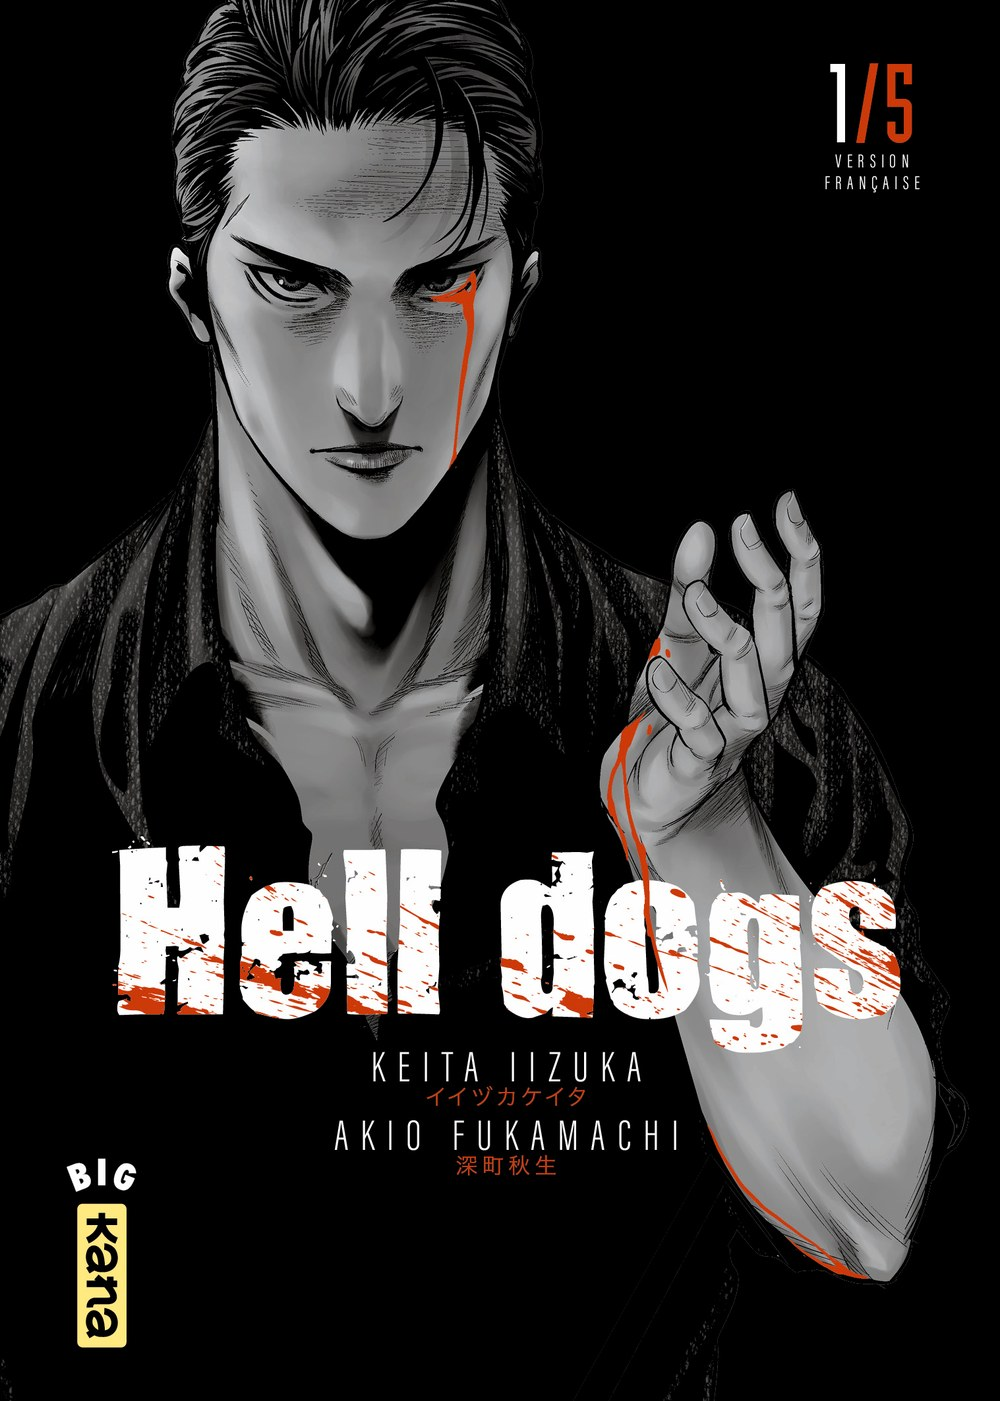
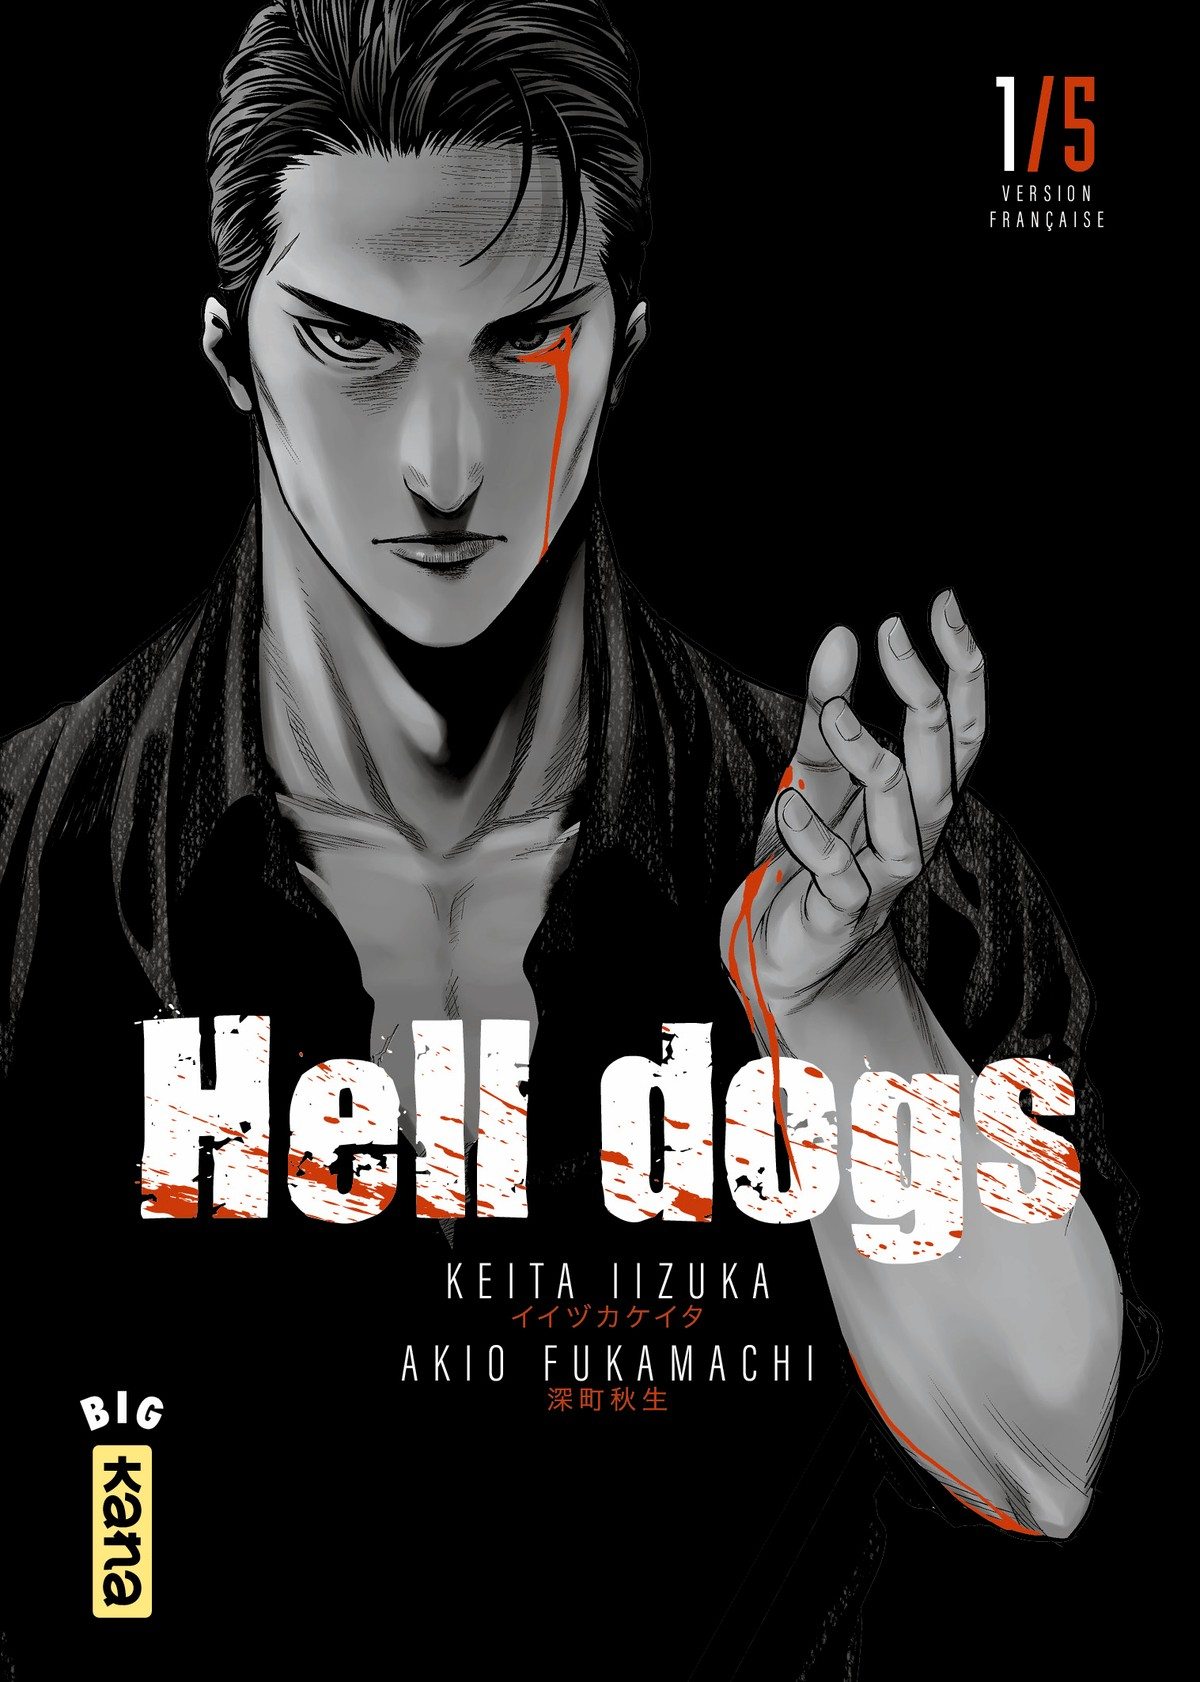
Hell Dogs T.01 : meilleure couverture ; fiche série : titre « Informations » ; back-office : carte dépliée d'un appui, tomes plus clairs, réseaux des auteurs obligatoires ; légendes avec @mentions des comptes officiels
Claude-Session: https://claude.ai/code/session_01ShgbxL6GpEPzbudUpDfTjj

Changed region(s): [[0.868, 0.6752, 0.899, 0.7059], [0.093, 0.8594, 0.124, 0.8901]]

diff --git a/studio/fiche/index.html b/studio/fiche/index.html
@@ -185,6 +185,11 @@ const SITE = "furyo.pages.dev";
 const TAGS = { "Furyō": ["furyo", "yankee"], "Furyō Old School": ["furyo"], "Yakuza": ["yakuza"], "Bōsōzoku": ["bosozoku"], "Crime": ["crime"], "Underground": ["underground"], "Gang": ["gang"], "Arts Martiaux": ["artsmartiaux"], "Combat de rue": ["streetfight"], "Thriller": ["thriller"], "Policier": ["polar"], "Drogue": ["drogue"], "Prison": ["prison"], "Lycée": ["lycee"], "Moto": ["moto"] };
 const tagOf = t => "#" + String(t || "").normalize("NFD").replace(/[\u0300-\u036f]/g, "").replace(/[^A-Za-z0-9]/g, "");
 const phrases = (txt, n) => (String(txt || "").match(/[^.!?…]+[.!?…]+(\s|$)/g) || [txt || ""]).slice(0, n).join("").trim();
+// @mentions des comptes officiels (auteurs d'abord, puis éditeurs, magazine, plateforme), réseau par réseau.
+function mentions(d, net){
+  const h = d.handles; if (!h) return "";
+  return [...new Set([...(h.auteurs || []), ...(h.editeurs || [])].map(x => x[net]).filter(Boolean))].map(x => "@" + x).join(" ");
+}
 function caps(d){
   const url = `${SITE}/series/${d.slug}`;
   const auteurs = d.scen && d.dess && d.scen !== d.dess ? `Histoire ${d.scen} · Dessin ${d.dess}` : (d.scen || d.dess || "");
@@ -201,7 +206,7 @@ ${phrases(d.resume, 2)}
 ${pays}
 
 📖 La fiche complète (tous les tomes, extraits, adaptations) est sur le site : lien en bio.${membre}
-
+${mentions(d, "ig") ? "\n📣 " + mentions(d, "ig") + "\n" : ""}
 Fiche n°${d.n} sur ${d.tot} · de nouvelles fiches chaque semaine.
 
 ${tags.concat(["#mangafr"]).slice(0, 12).join(" ")}`;
@@ -211,10 +216,10 @@ ${phrases(d.resume, 1)}
 
 ${auteurs}
 Tout sur la série : lien en bio 📖${membre}
-
+${mentions(d, "tt") ? "\n📣 " + mentions(d, "tt") + "\n" : ""}
 ${tags.concat(["#mangatok", "#mangafr", "#manga"]).filter((v, i, a) => a.indexOf(v) === i).slice(0, 8).join(" ")}`;
   // X : 280 caractères, un lien compte pour 23. On raccourcit le résumé jamais le reste.
-  const xBase = r => `🆕 Nouvelle fiche : ${d.t}${infos ? ` (${[d.type, d.y1].filter(Boolean).join(", ")})` : ""}\n\n${r}${r ? "\n\n" : ""}Tout sur la série 👉 ${url}\n${tags.slice(0, 3).join(" ")}`;
+  const xBase = r => `🆕 Nouvelle fiche : ${d.t}${infos ? ` (${[d.type, d.y1].filter(Boolean).join(", ")})` : ""}\n\n${r}${r ? "\n\n" : ""}Tout sur la série 👉 ${url}\n${mentions(d, "x") ? mentions(d, "x") + "\n" : ""}${tags.slice(0, 3).join(" ")}`;
   const xLen = t => t.replace(url, "x".repeat(23)).length;
   let r = phrases(d.resume, 1), x = xBase(r);
   while (xLen(x) > 280 && r) { r = r.split(" ").slice(0, -1).join(" "); x = xBase(r ? r.replace(/[,;:]?$/, "…") : ""); }
@@ -253,7 +258,11 @@ async function pick(slug){
     n: rang ? rang.rang : (AV ? AV.enLigne : 1), tot: AV ? AV.total : 600, scen: "", dess: "", resume: "" };
   document.getElementById("n").value = cur.n; document.getElementById("tot").value = cur.tot;
   history.replaceState(null, "", "?s=" + s.slug); draw(); drawCaps();
-  try { const j = await (await fetch("/api/serie?s=" + s.slug)).json(); if (j.serie && cur.slug === s.slug) { cur.scen = j.serie.scen; cur.dess = j.serie.dess; cur.resume = j.serie.resume || ""; cur.pubJP = j.serie.pubJP || ""; cur.tomesJP = j.serie.tomesJP; draw(); drawCaps(); } } catch (e) {}
+  try { const j = await (await fetch("/api/serie?s=" + s.slug)).json(); if (j.serie && cur.slug === s.slug) { cur.scen = j.serie.scen; cur.dess = j.serie.dess; cur.resume = j.serie.resume || ""; cur.pubJP = j.serie.pubJP || ""; cur.tomesJP = j.serie.tomesJP; draw(); drawCaps(); }
+    // Comptes officiels pour les @mentions (seulement si connecté au back-office).
+    if (cur.id) { const r = await fetch("/api/admin/handles?id=" + cur.id); const m = document.getElementById("capMsg");
+      if (r.ok) { const h = await r.json(); if (cur.slug === s.slug) { cur.handles = h; drawCaps(); } }
+      else if (r.status === 401 && m) m.textContent = "Connecte-toi au back-office (/admin/) pour ajouter automatiquement les @ des auteurs et éditeurs."; } } catch (e) {}
 }
 async function dl(key){
   const [th, fm] = key.split("-"), [w, h] = SIZE[fm];

diff --git a/functions/api/admin/series.js b/functions/api/admin/series.js
@@ -7,15 +7,20 @@ import { estVisible } from "../../../lib/site.js";
 const SERIES = { dataSource: "3ebb5e1a-634f-8051-9faf-000be2dabb16", database: "3ebb5e1a634f80f998e3c0fe5b75b6ea" };
 const EDITIONS = { dataSource: "ab76d47e-6580-4eab-abb5-87012c3b81a9", database: "c87f41f89f8142e5b45bb21f66416f6f" };
 const TOMES = { dataSource: "bb621014-699d-4209-b488-18f5e53dd3df", database: "8bebb5bd70554da9b2801c132181a521" };
+const AUTEURS = { dataSource: "22b1c097-0ff0-496c-9540-26953780c522", database: "bbefc8a1431247788b2445de4265d36b" };
 const nid = id => id.replace(/-/g, "");
 
 export async function onRequestGet({ request, env }) {
   if (!(await isAdmin(request, env))) return json({ error: "connexion requise" }, 401);
-  const [rows, eRows, tRows] = await Promise.all([
+  const [rows, eRows, tRows, aRows] = await Promise.all([
     queryAll(env.NOTION_TOKEN, { ...SERIES }),
     queryAll(env.NOTION_TOKEN, { ...EDITIONS }),
     queryAll(env.NOTION_TOKEN, { ...TOMES }),
+    queryAll(env.NOTION_TOKEN, { ...AUTEURS }),
   ]);
+  // Auteurs dont les réseaux ont été cherchés (date remplie, même si aucun compte n'existe).
+  const auteurOk = {};
+  for (const a of aRows) auteurOk[nid(a.id)] = !!date(a.properties["Réseaux vérifiés le"]);
   const today = new Date().toISOString().slice(0, 10);
   // Tomes parus par série et par pays : numéros distincts, et ceux sans couverture.
   const eds = {};
@@ -43,15 +48,17 @@ export async function onRequestGet({ request, env }) {
       ["Magazine", !!text(p["Magazine"])],
       ["Statut Japon", !!text(p["Statut Japon"])],
       ["Extrait JP", !!text(p["Lecture essai (試し読み)"]) || check(p["Pas d'extrait JP"])],
-      [tJP ? `Tomes JP ${jp.n.size}/${tJP}` : "Tomes JP (nombre total à remplir)", !!tJP && jp.n.size >= tJP],
-      [`Couvertures JP${jp.sansCouv.size ? " (" + jp.sansCouv.size + (jp.sansCouv.size > 1 ? " manquantes)" : " manquante)") : ""}`, jp.n.size > 0 && jp.sansCouv.size === 0],
+      [tJP ? `Tomes JP dans Notion : ${jp.n.size} sur ${tJP} parus` : "Tomes JP : nombre total à remplir", !!tJP && jp.n.size >= tJP],
+      [jp.sansCouv.size ? `Couvertures JP : ${jp.sansCouv.size} tome${jp.sansCouv.size > 1 ? "s" : ""} sans couverture` : "Couvertures JP des tomes saisis", jp.n.size > 0 && jp.sansCouv.size === 0],
     ];
+    const aut = rel(p["Auteurs"]);
+    oblig.push([aut.length ? `Réseaux des auteurs cherchés (${aut.filter(a => auteurOk[a]).length}/${aut.length})` : "Auteurs reliés à la base Auteurs", aut.length > 0 && aut.every(a => auteurOk[a])]);
     // Légendes des réseaux pour le post « Nouvelle fiche » (X facultatif tant que le compte n'est pas lancé).
     oblig.push(["Légende Instagram", !!text(p["Légende Instagram"])], ["Légende TikTok", !!text(p["Légende TikTok"])]);
     if (enFrance) oblig.push(
       ["Extrait FR", !!text(p["Extrait FR"]) || check(p["Pas d'extrait FR"])],
-      [tFR ? `Tomes FR ${fr.n.size}/${tFR}` : "Tomes FR (nombre total à remplir)", !!tFR && fr.n.size >= tFR],
-      [`Couvertures FR${fr.sansCouv.size ? " (" + fr.sansCouv.size + (fr.sansCouv.size > 1 ? " manquantes)" : " manquante)") : ""}`, fr.n.size > 0 && fr.sansCouv.size === 0],
+      [tFR ? `Tomes FR dans Notion : ${fr.n.size} sur ${tFR} parus` : "Tomes FR : nombre total à remplir", !!tFR && fr.n.size >= tFR],
+      [fr.sansCouv.size ? `Couvertures FR : ${fr.sansCouv.size} tome${fr.sansCouv.size > 1 ? "s" : ""} sans couverture` : "Couvertures FR des tomes saisis", fr.n.size > 0 && fr.sansCouv.size === 0],
     );
     return {
       id, notion: r.url, t, fr: text(p["Titre FR"]), jp: text(p["Titre Original"]), slug: slugify(t),

diff --git a/admin/index.html b/admin/index.html
@@ -44,7 +44,7 @@ a{color:inherit}
 .chip small{font-size:11px;opacity:.75}
 main{max-width:900px;margin:0 auto;padding:12px 16px 80px}
 .list{list-style:none;margin:0;padding:0;display:flex;flex-direction:column;gap:8px}
-.it{background:var(--ink-2);border-radius:16px;padding:10px 12px;display:grid;grid-template-columns:44px minmax(0,1fr) auto;gap:4px 12px;align-items:center}
+.it{cursor:pointer;background:var(--ink-2);border-radius:16px;padding:10px 12px;display:grid;grid-template-columns:44px minmax(0,1fr) auto;gap:4px 12px;align-items:center}
 .th{width:44px;aspect-ratio:5/7;border-radius:6px;background:var(--ink-3);overflow:hidden;display:grid;place-items:center;font-size:10px;color:var(--paper-3);grid-row:span 2}
 .th img{width:100%;height:100%;object-fit:cover}
 .nm{min-width:0}
@@ -170,7 +170,6 @@ function row(s){
       <span class="ob ${s.manque.length ? "" : "full"}">★ ${s.oblig.length - s.manque.length}/${s.oblig.length}</span>
       ${s.manque.length ? `<span class="miss">Manque : ${esc(s.manque.slice(0, 3).join(", "))}${s.manque.length > 3 ? "…" : ""}</span>` : `<span class="done">Obligatoires faits · à toi de valider</span>`}
       ${s.trouver ? `<span class="miss">· À trouver : ${esc(s.trouver.slice(0, 60))}${s.trouver.length > 60 ? "…" : ""}</span>` : ""}
-      <button class="tog" data-more>Détails</button>
     </div>
     <div class="more">
       <label>★ Éléments obligatoires</label>
@@ -197,7 +196,8 @@ document.addEventListener("click", e => {
   const c = e.target.closest(".chip[data-f]"); if (c) { F = c.dataset.f; Q = ""; const q = document.getElementById("q"); if (q) q.value = ""; draw(); return; }
   const li = e.target.closest(".it"); if (!li) return;
   const s = ITEMS.find(x => x.id === li.dataset.id);
-  if (e.target.closest("[data-more]")) { li.classList.toggle("open"); return; }
+  // Un appui n'importe où sur la carte (hors boutons et champs) la déplie ou la replie.
+  if (!e.target.closest("button, select, input, textarea, label, a, .more")) { li.classList.toggle("open"); return; }
   if (e.target.closest("[data-coeur]")) { send(s, { coeur: !s.coeur }); return; }
   if (e.target.closest("[data-save]")) { send(s, { lot: li.querySelector("[data-lot]").value.trim(), trouver: li.querySelector("[data-trouver]").value.trim() }); }
 });

diff --git a/functions/api/admin/handles.js b/functions/api/admin/handles.js
@@ -1,0 +1,29 @@
+// GET /api/admin/handles?id=<id série> : comptes officiels des auteurs et des éditeurs / magazines d'une série,
+// pour mettre les @mentions dans les légendes du Studio (connecté au back-office seulement).
+import { text, rel } from "../../../lib/notion.js";
+import { json, isAdmin } from "../../../lib/admin.js";
+
+async function page(token, id) {
+  const r = await fetch(`https://api.notion.com/v1/pages/${id}`, { headers: { Authorization: `Bearer ${token}`, "Notion-Version": "2022-06-28" } });
+  return r.ok ? r.json() : null;
+}
+// https://x.com/compte → compte (sans @), pareil pour Instagram et TikTok.
+const handle = u => { const m = String(u || "").match(/(?:x|twitter|instagram|tiktok)\.com\/@?([A-Za-z0-9_.]+)/i); return m ? m[1] : ""; };
+
+export async function onRequestGet({ request, env }) {
+  if (!(await isAdmin(request, env))) return json({ error: "connexion requise" }, 401);
+  const id = new URL(request.url).searchParams.get("id") || "";
+  if (!/^[0-9a-f]{32}$/.test(id)) return json({ error: "série inconnue" }, 400);
+  const s = await page(env.NOTION_TOKEN, id);
+  if (!s) return json({ error: "série introuvable" }, 404);
+  const p = s.properties || {};
+  const [auteurs, editeurs] = await Promise.all([
+    Promise.all(rel(p["Auteurs"]).map(a => page(env.NOTION_TOKEN, a))),
+    Promise.all(rel(p["Éditeurs (fiches)"]).map(e => page(env.NOTION_TOKEN, e))),
+  ]);
+  const acc = q => ({ x: handle(text(q["X (Twitter)"])), ig: handle(text(q["Instagram"])), tt: handle(text(q["TikTok"])) });
+  return json({
+    auteurs: auteurs.filter(Boolean).map(a => ({ nom: text(a.properties["Auteur"]), role: text(a.properties["Rôle"]), ...acc(a.properties) })),
+    editeurs: editeurs.filter(Boolean).map(e => ({ nom: text(e.properties["Nom"]), type: text(e.properties["Type"]), ...acc(e.properties) })),
+  });
+}

diff --git a/series/index.html b/series/index.html
@@ -101,6 +101,7 @@ h1.cut{cursor:pointer}
 .cmp .no{color:var(--paper-3);font-weight:500}
 /* Extraits (bas de l'onglet Info / Extrait) */
 .ext{margin-top:20px}
+.ext.info-h{margin-top:4px}
 .ext h3{margin:0 0 8px;font-size:15px;font-weight:700}
 .ex{display:flex;align-items:center;gap:10px;padding:12px 2px;border-top:1px solid var(--ink-3);font-size:14px;font-weight:600;text-decoration:none}
 .ex .flag{width:18px;height:12px;border-radius:2px}
@@ -327,7 +328,7 @@ function panel(s, pubFR, pubJP, eds, ad){
       ["Prépublication", prepub, ""],
       ["Tomes", tomes(nJP, s.stJP), tomes(nFR, s.stFR)],
     ].filter(r => r[1] || (hasFR && r[2]));
-    return `<table class="cmp"><thead><tr><th></th>${hasFR ? `<th><span>${FLAGS.France}France</span></th>` : ""}<th><span>${FLAGS.Japon}Japon</span></th></tr></thead>
+    return `<div class="ext info-h"><h3>Informations</h3></div><table class="cmp"><thead><tr><th></th>${hasFR ? `<th><span>${FLAGS.France}France</span></th>` : ""}<th><span>${FLAGS.Japon}Japon</span></th></tr></thead>
     <tbody>${rows.map(([k, jp, fr]) => `<tr><th>${k}</th>${hasFR ? cell(fr) : ""}${cell(jp)}</tr>`).join("")}</tbody></table>
     <div class="ext"><h3>Extraits</h3>
       ${[["France", s.extraitFR, "Extrait en français"], ["Japon", s.extraitJP, "Extrait japonais"]].map(([p, u, l]) => u
